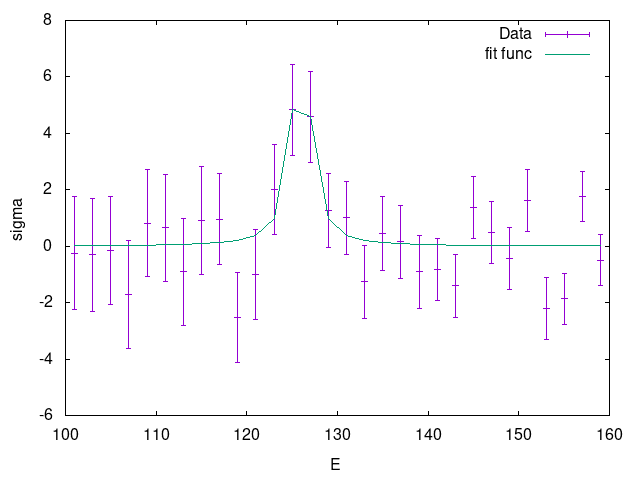
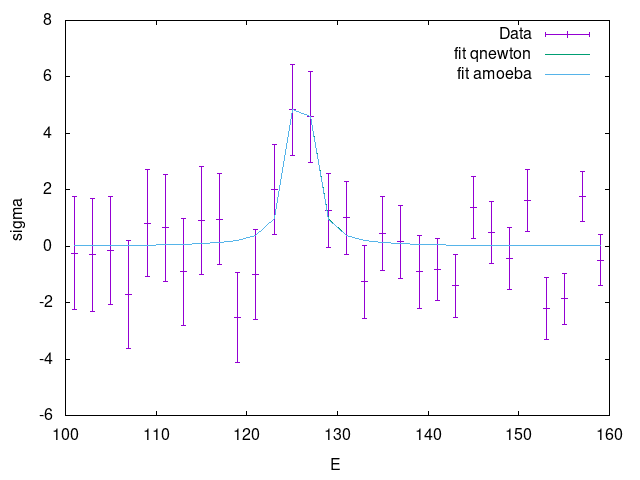
amoeba done (Just interchanging two lines :( )

Changed region(s): [[0.6875, 0.0938, 0.8438, 0.1875]]

diff --git a/homework/minimization/main.c b/homework/minimization/main.c
@@ -6,6 +6,16 @@
 #include <gsl/gsl_blas.h>
 #include <assert.h>
 
+void matrix_print(gsl_matrix* A,FILE* fil){
+    for(int i=0; i<(A->size1);i++){
+        for(int j=0; j<(A->size2); j++){
+            double Aij = gsl_matrix_get(A,i,j);
+            fprintf(fil, "%0.3f  ",Aij);
+        }
+        fprintf(fil,"\n");
+    }
+}
+
 static int N_MAX;
 
 static double E[30]={101,103,105,107,109,111,113,115,117,
@@ -214,10 +224,27 @@ void amoeba( double f(gsl_vector* x),
     init_vals(f,simplex,F_val,centroid,&hi,&lo);
     while(size(simplex,lo)>eps && N_MAX<10000){
         N_MAX++;
-        gsl_vector_view highest = gsl_matrix_column(simplex,hi);
         hiLoCent(simplex,F_val,centroid,&hi,&lo);
-        reflect(&highest.vector,centroid, p1);
+        gsl_vector_view highest = gsl_matrix_column(simplex,hi);
+        /*
+        printf("N_MAX: %i \n ",N_MAX);
+
+        printf("centroid: \n ");
+        gsl_vector_fprintf(stdout,centroid,"%g");
+
+        printf("Simplex: \n ");
+        matrix_print(simplex,stdout);
+        printf("highest = %i , lowest = %i\n", hi, lo);
+        printf("Highest: \n");
+        gsl_vector_fprintf(stdout,&highest.vector,"%g");
+        */
+        reflect(&highest.vector, centroid, p1);
+
+
         double f_re = f(p1);
+        //printf("P1: \n");
+        //gsl_vector_fprintf(stdout, p1 ,"%g");
+
         if(f_re< gsl_vector_get(F_val,lo)){
             expand(&highest.vector,centroid,p2);
             double f_ex = f(p2);
@@ -235,6 +262,7 @@ void amoeba( double f(gsl_vector* x),
                 gsl_vector_memcpy(&highest.vector,p1);
                 gsl_vector_set(F_val,hi,f_re);
             }
+
             else {
                 contract(&highest.vector, centroid, p1);
                 double f_co = f(p1);
@@ -247,6 +275,7 @@ void amoeba( double f(gsl_vector* x),
                     init_vals(f, simplex, F_val, centroid, &hi, &lo);
                 }
             }
+
         }
     }
     gsl_vector_view final_low = gsl_matrix_column(simplex,lo);
@@ -301,12 +330,16 @@ int main(){
     gsl_vector* x= gsl_vector_alloc(3);
     gsl_vector* z= gsl_vector_alloc(3);
     gsl_vector* step= gsl_vector_alloc(3);
-    gsl_vector_set(x,0,3.);
-    gsl_vector_set(x,1,3.);
-    gsl_vector_set(x,2,3.);
+    gsl_vector_set(x,0,1.);
+    gsl_vector_set(x,1,1.);
+    gsl_vector_set(x,2,1.);
+    gsl_vector_set(step,0,0.1);
+    gsl_vector_set(step,1,0.1);
+    gsl_vector_set(step,2,0.1);
 
-    qnewton(xiAnden,x,0.01);
-    printf("min euler norm: (%g, %g, %g)\n", gsl_vector_get(x,0), gsl_vector_get(x,1), gsl_vector_get(x,2));
+
+    amoeba(xiAnden,x,step,0.001);
+    printf("min euler norm (amoeba): (%g, %g %g), N_MAX = %i\n", gsl_vector_get(x,0), gsl_vector_get(x,1), gsl_vector_get(x,2), N_MAX);
 
     //vector for himmelblau and rosenbrock
     gsl_vector* y= gsl_vector_alloc(2);
@@ -333,21 +366,26 @@ int main(){
     amoeba(himmelblau,y,y_step,0.001);
     printf("amoeba himmelblau min: (%g, %g) used steps = %i\n", gsl_vector_get(y,0), gsl_vector_get(y,1),N_MAX);
 
+
     //preparing vectors for qnewton partb
     gsl_vector_set(x,0,100.);
     gsl_vector_set(x,1,10.);
     gsl_vector_set(x,2,10.);
 
     //preparing vectors for amoeba
-    gsl_vector_set(z,0,120.);
+    gsl_vector_set(z,0,100.);
     gsl_vector_set(z,1,10.);
     gsl_vector_set(z,2,10.);
     gsl_vector_set(step,0,10);
     gsl_vector_set(step,1,1);
     gsl_vector_set(step,2,1);
     qnewton(deviation_BW,x,0.001);
+    printf("Higgs values qnewton:\n");
+    printf("(m,Gamma,A)=(%g,%g,%g)\n", gsl_vector_get(x,0),gsl_vector_get(x,1),gsl_vector_get(x,2));
     amoeba(deviation_BW,z,step,0.001);
-    gsl_vector_fprintf(stdout,z,"%g");
+    printf("Higgs values amoeba:\n");
+    printf("(m,Gamma,A)=(%g,%g,%g)\n", gsl_vector_get(z,0),gsl_vector_get(z,1),gsl_vector_get(z,2));
+
     for(int i =0; i<30;i++){
         fprintf(exB,"%g %g %g %g %g\n",E[i],sig[i],dsig[i], breitWigner(x,E[i]), breitWigner(z,E[i]));
     }
@@ -359,24 +397,12 @@ int main(){
     gsl_vector_set(y_step,0,0);
     gsl_vector_set(y_step,1,2);
 
-    gsl_matrix* test = gsl_matrix_alloc(2,3);
-    gsl_matrix_set_col(test,0,y_step);
-    gsl_matrix_set_col(test,1,y);
-    gsl_matrix_set_col(test,2,reflected);
-    for(int i=0; i<2;i++){
-        double x0 = gsl_matrix_get(test,i,0);
-        double x1 = gsl_matrix_get(test,i,1);
-        double x2 = gsl_matrix_get(test,i,2);
-        printf("%g %g %g\n",x0,x1,x2);
-    }
-
-
-    gsl_vector_free(reflected);
     gsl_vector_free(x);
     gsl_vector_free(y);
     gsl_vector_free(z);
     gsl_vector_free(step);
     gsl_vector_free(y_step);
     fclose(exB);
+
 	return 0;
 }
